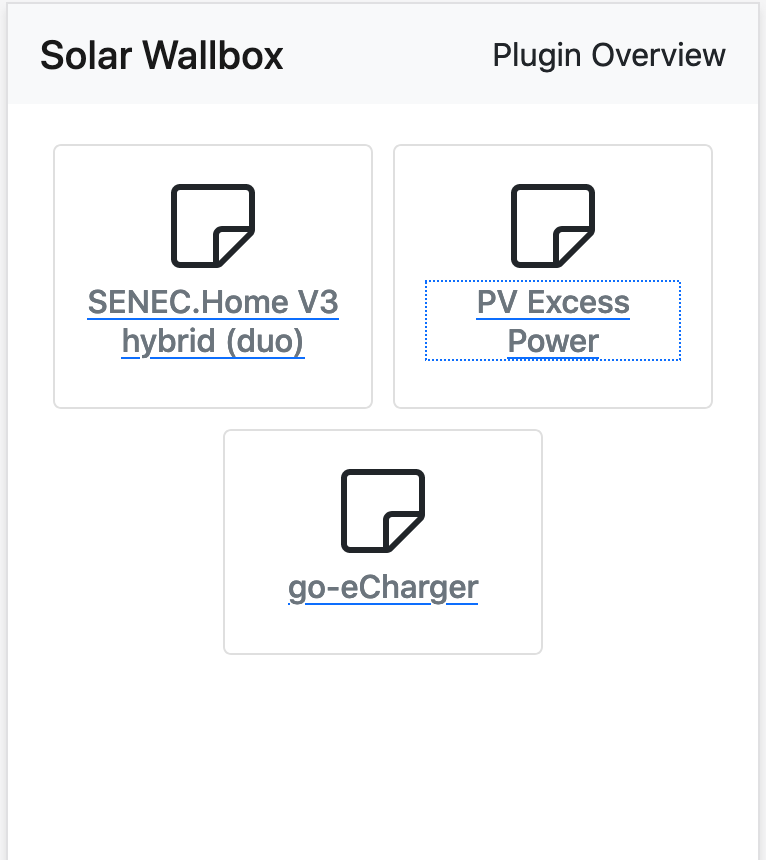
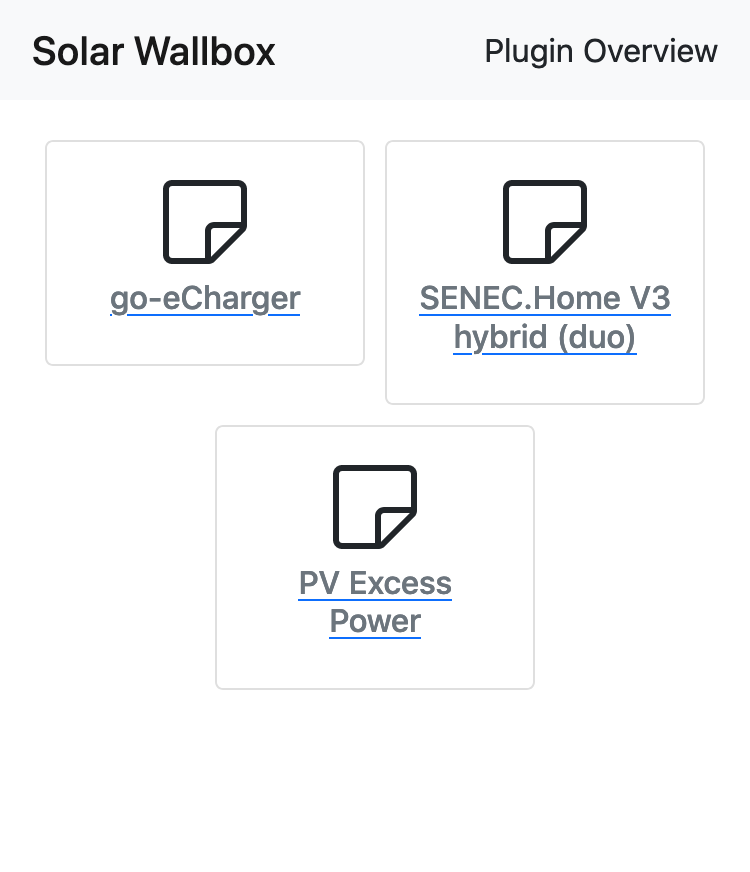
Update plugin screenshots

diff --git a/README.md b/README.md
@@ -31,8 +31,13 @@ Then, you need `Python 3` and `pip` installed, to do:
         <td>
             <img src="img/plugin_overview.png" width="380" />
         </td>
+    </tr>
+    <tr>
         <td>
-            <img src="img/senec_plugin.png" width="380" style="margin-left: 20px;" />
+            <img src="img/senec_plugin.png" width="380" />
+        </td>
+        <td>
+            <img src="img/echarger_plugin.png" width="380" />
         </td>
     </tr>
 </table>
